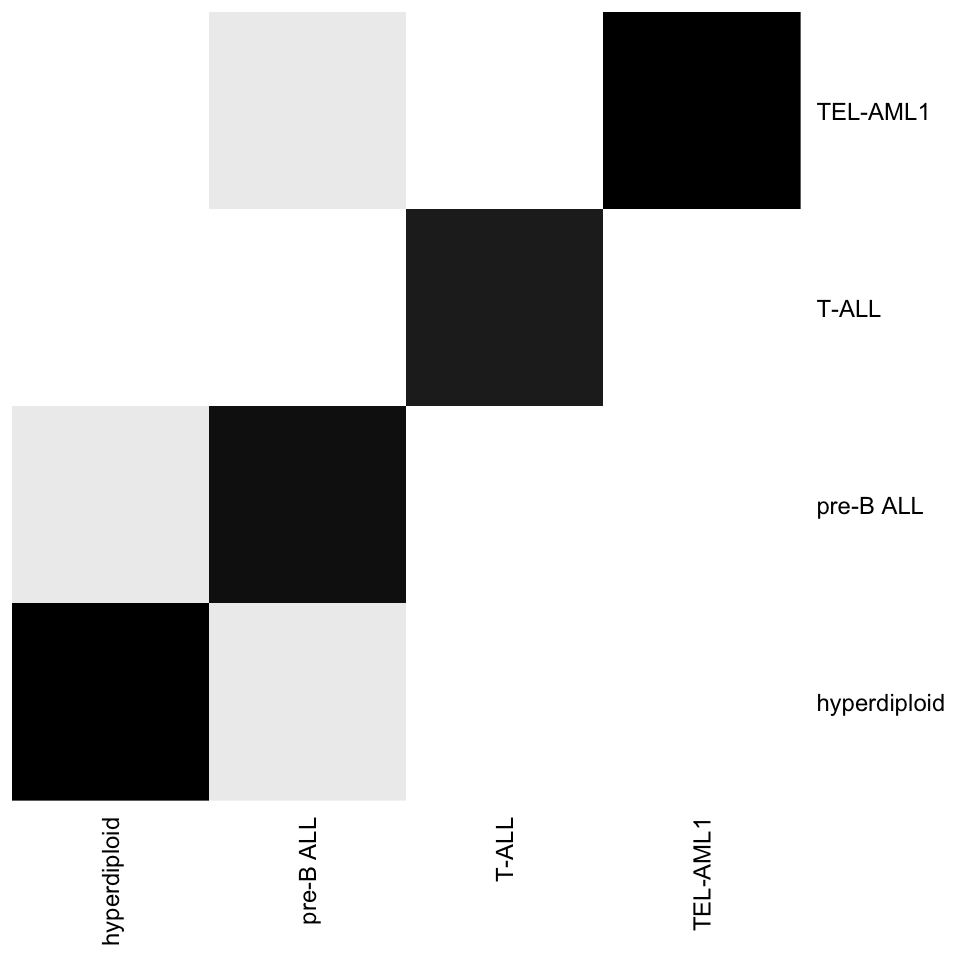
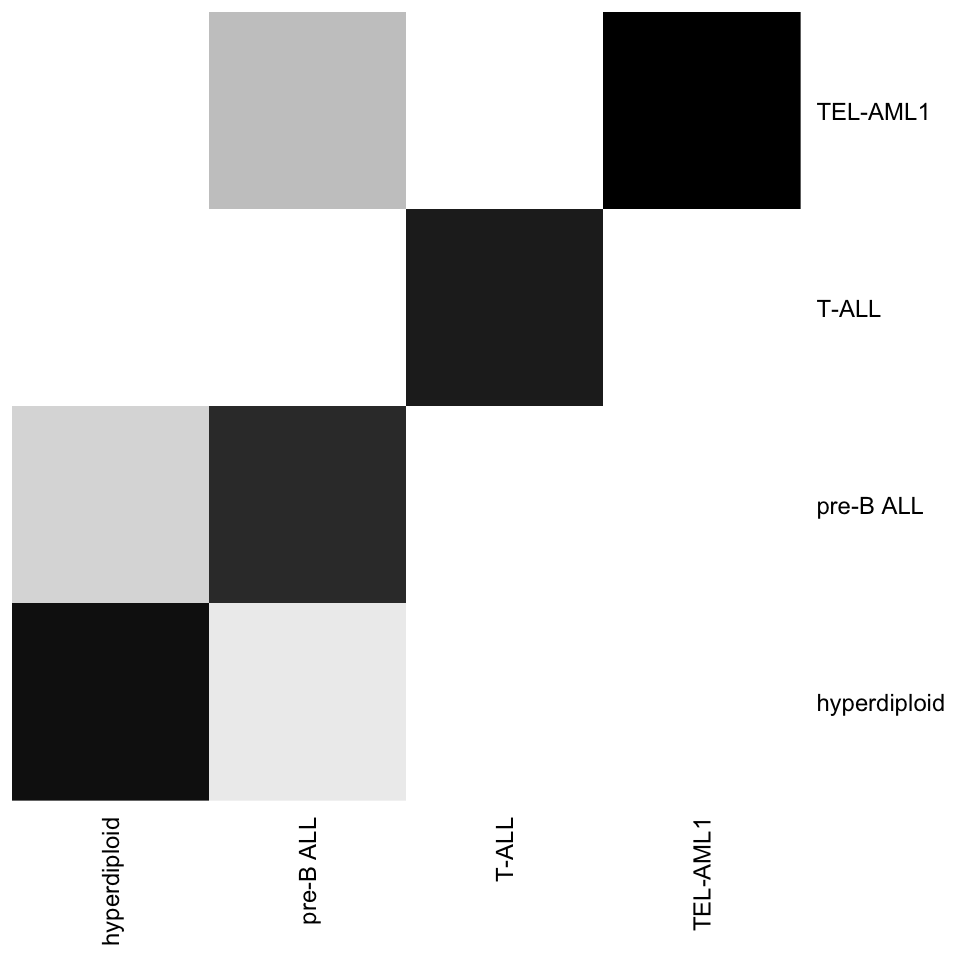
added info during the support session + tuning methods suggested by Fabiana Rossi

Changed region(s): [[0.2188, 0.4062, 0.4375, 0.625], [0.2188, 0.0, 0.4375, 0.2188]]

diff --git a/practicals/multivariate-analysis_DenBoer2009/DenBoer_2009_supervised-classification.html b/practicals/multivariate-analysis_DenBoer2009/DenBoer_2009_supervised-classification.html
@@ -11,7 +11,7 @@
 
 <meta name="author" content="Jacques van Helden" />
 
-<meta name="date" content="2020-04-08" />
+<meta name="date" content="2020-04-12" />
 
 <title>Practical – Supervised classification – Microarrays</title>
 
@@ -351,7 +351,7 @@ div.tocify {
 <h1 class="title toc-ignore">Practical – Supervised classification – Microarrays</h1>
 <h3 class="subtitle">STAT2</h3>
 <h4 class="author">Jacques van Helden</h4>
-<h4 class="date">2020-04-08</h4>
+<h4 class="date">2020-04-12</h4>
 
 </div>
 
@@ -420,7 +420,7 @@ div.tocify {
 <a class="sourceLine" id="cb3-2" data-line-number="2"><span class="kw">message</span>(<span class="st">&quot;Loading data from memory image file&quot;</span>)</a>
 <a class="sourceLine" id="cb3-3" data-line-number="3"><span class="kw">system.time</span>(<span class="kw">load</span>(memImageFile))</a></code></pre></div>
 <pre><code>   user  system elapsed 
-  0.573   0.029   0.603 </code></pre>
+  0.604   0.030   0.636 </code></pre>
 <div class="sourceCode" id="cb5"><pre class="sourceCode r"><code class="sourceCode r"><a class="sourceLine" id="cb5-1" data-line-number="1"><span class="kw">message</span>(<span class="st">&quot;Data loaded&quot;</span>)</a></code></pre></div>
 </div>
 <div id="recommendations" class="section level2">
@@ -670,7 +670,7 @@ div.tocify {
 <a class="sourceLine" id="cb7-4" data-line-number="4"><span class="co">#&#39; @param x a data frame with one row per variable and one column per individual</span></a>
 <a class="sourceLine" id="cb7-5" data-line-number="5"><span class="co">#&#39; @param classes a vector indicating the class of each individual</span></a>
 <a class="sourceLine" id="cb7-6" data-line-number="6"><span class="co">#&#39; @param minPerClass=20 minimal number of inidividuals per class</span></a>
-<a class="sourceLine" id="cb7-7" data-line-number="7"><span class="co">#&#39; @return a list containing the filtered data table and vector of class memberships</span></a>
+<a class="sourceLine" id="cb7-7" data-line-number="7"><span class="co">#&#39; @return a list containing the filtered data table, a vector of class memberships, and other fields describing the numbers and names of the elements (variables, samples, classes)</span></a>
 <a class="sourceLine" id="cb7-8" data-line-number="8"><span class="co">#&#39; @export</span></a>
 <a class="sourceLine" id="cb7-9" data-line-number="9">FilterClasses &lt;-<span class="st"> </span><span class="cf">function</span>(x,</a>
 <a class="sourceLine" id="cb7-10" data-line-number="10">                          classes,</a>
@@ -678,7 +678,7 @@ div.tocify {
 <a class="sourceLine" id="cb7-12" data-line-number="12"></a>
 <a class="sourceLine" id="cb7-13" data-line-number="13">  <span class="co">## Check that the data table and class vector have consistent dimensions</span></a>
 <a class="sourceLine" id="cb7-14" data-line-number="14">  <span class="cf">if</span> (<span class="kw">length</span>(classes) <span class="op">!=</span><span class="st"> </span><span class="kw">ncol</span>(x)) {</a>
-<a class="sourceLine" id="cb7-15" data-line-number="15">    <span class="kw">stop</span>(<span class="st">&quot;The number of columns of x shoudl be identical to the length of classes&quot;</span>)</a>
+<a class="sourceLine" id="cb7-15" data-line-number="15">    <span class="kw">stop</span>(<span class="st">&quot;The number of columns of x should be identical to the length of classes&quot;</span>)</a>
 <a class="sourceLine" id="cb7-16" data-line-number="16">  }</a>
 <a class="sourceLine" id="cb7-17" data-line-number="17"></a>
 <a class="sourceLine" id="cb7-18" data-line-number="18">  <span class="co">## Prepare a list that will hold the different pieces of result</span></a>
@@ -714,7 +714,7 @@ div.tocify {
 <a class="sourceLine" id="cb7-48" data-line-number="48">  }</a>
 <a class="sourceLine" id="cb7-49" data-line-number="49"></a>
 <a class="sourceLine" id="cb7-50" data-line-number="50">  <span class="co">## Build the result object (list) by adding fields with the relevant information</span></a>
-<a class="sourceLine" id="cb7-51" data-line-number="51">  result<span class="op">$</span>nbClasses &lt;-<span class="st"> </span><span class="kw">length</span>(result<span class="op">$</span>classes) <span class="co">## Number of classes after filtering</span></a>
+<a class="sourceLine" id="cb7-51" data-line-number="51">  result<span class="op">$</span>nbClasses &lt;-<span class="st"> </span><span class="kw">length</span>(classNames) <span class="co">## Number of classes after filtering</span></a>
 <a class="sourceLine" id="cb7-52" data-line-number="52">  result<span class="op">$</span>nbIndividuals &lt;-<span class="st"> </span><span class="kw">nrow</span>(result<span class="op">$</span>x) <span class="co">## Number of individuals</span></a>
 <a class="sourceLine" id="cb7-53" data-line-number="53">  result<span class="op">$</span>nbVariables &lt;-<span class="st"> </span><span class="kw">ncol</span>(result<span class="op">$</span>x) <span class="co">## Number of variables</span></a>
 <a class="sourceLine" id="cb7-54" data-line-number="54">  result<span class="op">$</span>classNames &lt;-<span class="st"> </span><span class="kw">unique</span>(result<span class="op">$</span>classes) <span class="co">## class names after filtering</span></a>
@@ -930,15 +930,15 @@ div.tocify {
 <tbody>
 <tr class="odd">
 <td>hyperdiploid</td>
-<td align="right">14</td>
+<td align="right">13</td>
 <td align="right">1</td>
 <td align="right">0</td>
 <td align="right">0</td>
 </tr>
 <tr class="even">
 <td>pre-B ALL</td>
-<td align="right">1</td>
-<td align="right">13</td>
+<td align="right">2</td>
+<td align="right">11</td>
 <td align="right">0</td>
 <td align="right">0</td>
 </tr>
@@ -952,7 +952,7 @@ div.tocify {
 <tr class="even">
 <td>TEL-AML1</td>
 <td align="right">0</td>
-<td align="right">1</td>
+<td align="right">3</td>
 <td align="right">0</td>
 <td align="right">14</td>
 </tr>
@@ -993,10 +993,103 @@ div.tocify {
 <h3>Comparison between results</h3>
 <p>Comparison between results obtained with:</p>
 <ul>
-<li>the smae classifier and different parameters</li>
-<li>different classifiers (assuming that you first selected the best parameters for each one)</li>
+<li><p>the same classifier and different parameters, in order to identify the optimal paramters.</p></li>
+<li><p>once hti is done, run different classifiers (assuming that you first selected the best parameters for each one) and compare their performances</p></li>
+</ul>
+<p>For this you need to be able to run the whole procedure several times</p>
+<ul>
+<li><p>iterating on the parameters</p>
+<ul>
+<li><p>iterating on the train/test session</p>
+<ul>
+<li>select training and testing sets</li>
+<li>train the classifier</li>
+<li>run the test on the testing set</li>
+<li>aggregate the results</li>
+<li>compute the confusion table</li>
+<li>compute the performance statistics (MER)</li>
+</ul></li>
+<li><p>summarise the results of the iterations</p>
+<ul>
+<li>mean performance</li>
+<li>variations of performance index between iterations of training/testing</li>
+</ul></li>
+</ul></li>
 </ul>
 </div>
+<div id="impact-of-the-parameters" class="section level3">
+<h3>Impact of the parameters</h3>
+<p>I propose to test the following parameters (but you are free to test other ones if you have a good reason to think they are relevant)</p>
+<ul>
+<li><p>For SVM: the critical parameter is the kernel (linear, radial, polynomial, sigmoid).</p>
+<ul>
+<li>To check: there is a function named <code>e1071::tune.svm()</code>, which might do the job. If so use it, it will facilitate your life.</li>
+</ul></li>
+<li><p>For KNN, the main parameter is the number of neighbours (<span class="math inline">\(k\)</span>). Test: 3, 4, 5, 7, 10</p>
+<ul>
+<li>There is a function named: <code>e1071::tune.knn()</code> -&gt; check if this enables you to automatically find the best parameteres</li>
+</ul></li>
+<li><p>Random Forest:</p>
+<ul>
+<li><p>random forest iterates many times (typically 500 times) training / testing on random subsets of the data (subset of individuals and variables). After the training, it tests the error rate on the individuals that were not retained for training. This is called <strong>Out-of-bag error</strong>.</p></li>
+<li><p>relevant parameters are</p>
+<ul>
+<li><strong>number of trees</strong> (“iterations”)</li>
+<li><strong>mtry</strong>: Number of variables randomly sampled as candidates at each split. Note that the default values are different for classification (sqrt(p) where p is number of variables in x) and regression (p/3)</li>
+</ul></li>
+<li><p>In ordre to see the best number of trees, you can simply ploit the RF model. This will display the Out-of-bag error rate as a function of the number of iterations.</p></li>
+<li><p>Fabiana noted a function <code>tuneRF()</code>, that runs RF with different parameter values, gather the results and displays graphically the impact of the parameters on the performances.</p></li>
+<li><p>There is also a funciton <code>e1071::tune.randomForest()</code>. Check which one is the most convenient</p></li>
+</ul></li>
+</ul>
+</div>
+<div id="iterations-of-trainingtesting" class="section level3">
+<h3>Iterations of training/testing</h3>
+<p>After having identified the best parameters for a given classifer (using the above-mentioned tune functions), you will run 10 iterations with the optimal parameters in order to measure the mean MER and its fluctuations.</p>
+<p>For each classifier that you will test, you should repeat the train/test evaluation because the result may vary depending on the random split of the dataset –&gt; the idea is to run it e.g. <span class="math inline">\(r = 10\)</span> times in order to obtain a mean value + the dispersion (e.g. standard devation) or a graphical representation (e.g. box plot) that shows how much the MER varies between repetitions of the test.</p>
+<p>At each iteration, you obtaine a given <span class="math inline">\(MER\)</span>. Collect them, and then you can draw a boxplot (for example) of the MER values. Suggestion: use a scale from 0 to 1 for the MER boxplot, in order to always display the full range of possible values.</p>
+</div>
+</div>
+<div id="data-reduction-and-feature-selection" class="section level2">
+<h2>Data reduction and feature selection</h2>
+<div id="variable-ordering" class="section level3">
+<h3>Variable ordering</h3>
+<p>The principle is to sort all the variables based on a given criterion, and to keep the <span class="math inline">\(n\)</span> top variables only.</p>
+<p>Typical criteria.</p>
+<ul>
+<li><p>A simple criterion is the <strong>variance</strong>, but this is not always a relevant criterion.</p></li>
+<li><p>An alternative is to sort the variables (in this case, the genes) by decreasing significance of a <strong>differential analysis test.</strong> So faw we saw how to run differential analysis with two groups. In this case we want to run a 4-group classification. One possibility is to run a test that compare multiple groups, e.g. anova (ANalysis Of Variance). Thi is a general method to analyse the impact of one or several factors on some osberver variable. In this case there would be a single factor (one-way ANOVA), the cancer class (subtype).</p></li>
+</ul>
+</div>
+<div id="pca" class="section level3">
+<h3>PCA</h3>
+<p>Keep the first components after PCA of the variable space.</p>
+</div>
+<div id="stepwise-selection" class="section level3">
+<h3>Stepwise selection</h3>
+<p>Two modalities: forward and backward.</p>
+<p><strong>Forward selection</strong>:</p>
+<pre><code>- train / test with each variable alone. the results are supposedly porr but some variables will give som success. 
+- Then run a train/test  combining the best variable with each other variable (2-variables test)
+- Select the bets of these 2-variables combinations, and run train/test by combining it with each one the remaining variables (here you have combinations of 3 variables)
+- ... do the same until $n$ variables, or stop if the performances start to decrease strongly</code></pre>
+<p>This is heavy: if you have <span class="math inline">\(n\)</span> variables, the number of training/testing sets is.</p>
+<ul>
+<li>first round : <span class="math inline">\(n\)</span> tests, and keep 1 variable</li>
+<li>second round: <span class="math inline">\(n -1\)</span> since you successively consider each vaaraiable that is not selected in the first round</li>
+<li>third round: <span class="math inline">\(n-1\)</span> tests</li>
+</ul>
+<p>…</p>
+<p>For all the rounds</p>
+<p><span class="math display">\[n + (n-1) + (n-2) + \ldots + 2 + 1\]</span></p>
+</div>
+</div>
+<div id="to-do-for-jvh" class="section level2">
+<h2>To do for JvH</h2>
+<ul>
+<li><p>add an example of multi-group differential expression analysis with ANOVA.</p></li>
+<li><p>test the tune.XXX() methods</p></li>
+</ul>
 </div>
 
 

diff --git a/practicals/multivariate-analysis_DenBoer2009/DenBoer_2009_load-and-explore_solutions.html b/practicals/multivariate-analysis_DenBoer2009/DenBoer_2009_load-and-explore_solutions.html
@@ -11,7 +11,7 @@
 
 <meta name="author" content="Jacques van Helden" />
 
-<meta name="date" content="2020-04-03" />
+<meta name="date" content="2020-04-12" />
 
 <title>Practical – Microarray analysis – Data loading and exploration</title>
 
@@ -351,7 +351,7 @@ div.tocify {
 <h1 class="title toc-ignore">Practical – Microarray analysis – Data loading and exploration</h1>
 <h3 class="subtitle">(STAT2)</h3>
 <h4 class="author">Jacques van Helden</h4>
-<h4 class="date">2020-04-03</h4>
+<h4 class="date">2020-04-12</h4>
 
 </div>
 
@@ -804,20 +804,28 @@ Data reduction with PCA. Topleft: variance of the first components
 <div class="sourceCode" id="cb12"><pre class="sourceCode r"><code class="sourceCode r"><a class="sourceLine" id="cb12-1" data-line-number="1"><span class="kw">par</span>(par.ori)</a></code></pre></div>
 </div>
 </div>
+<div id="saving-a-memory-image" class="section level2">
+<h2>Saving a memory image</h2>
+<p>At the end of this tutorial, we downloaded data in tabular format (expression table, metadata, group descriptions) and loaded them in R. We will be led to re-use the same dataset for the subsequent tutorials.</p>
+<p>For this, one possibility would be to re-run this tutorial before running the next ones. An simpler alternative is to save the content of the R memory in a file that can be reloaded in a single command.</p>
+<div class="sourceCode" id="cb13"><pre class="sourceCode r"><code class="sourceCode r"><a class="sourceLine" id="cb13-1" data-line-number="1"><span class="co">#### Save a memory image ####</span></a>
+<a class="sourceLine" id="cb13-2" data-line-number="2"><span class="kw">message</span>(<span class="st">&quot;Saving memory image in file &quot;</span>, memImageFile)</a>
+<a class="sourceLine" id="cb13-3" data-line-number="3"><span class="kw">save.image</span>(<span class="dt">file =</span> memImageFile)</a></code></pre></div>
+</div>
 <div id="extract-r-code-from-this-markdown" class="section level2">
 <h2>Extract R code from this markdown</h2>
-<div class="sourceCode" id="cb13"><pre class="sourceCode r"><code class="sourceCode r"><a class="sourceLine" id="cb13-1" data-line-number="1"><span class="kw">library</span>(knitr)</a>
-<a class="sourceLine" id="cb13-2" data-line-number="2">RmdFile &lt;-<span class="st"> </span><span class="kw">file.path</span>(<span class="st">&quot;practicals&quot;</span>, </a>
-<a class="sourceLine" id="cb13-3" data-line-number="3">                     <span class="st">&quot;multivariate-analysis_DenBoer2009&quot;</span>,</a>
-<a class="sourceLine" id="cb13-4" data-line-number="4">                     <span class="st">&quot;DenBoer_2009_load-and-explore_solutions.Rmd&quot;</span>)</a>
-<a class="sourceLine" id="cb13-5" data-line-number="5">RFile &lt;-<span class="st"> </span><span class="kw">file.path</span>(<span class="st">&quot;practicals&quot;</span>, </a>
-<a class="sourceLine" id="cb13-6" data-line-number="6">                   <span class="st">&quot;multivariate-analysis_DenBoer2009&quot;</span>, </a>
-<a class="sourceLine" id="cb13-7" data-line-number="7">                   <span class="st">&quot;DenBoer_2009_load-and-explore_solutions.R&quot;</span>)</a>
-<a class="sourceLine" id="cb13-8" data-line-number="8"><span class="co">## purl(RmdFile, RFile)</span></a></code></pre></div>
+<div class="sourceCode" id="cb14"><pre class="sourceCode r"><code class="sourceCode r"><a class="sourceLine" id="cb14-1" data-line-number="1"><span class="kw">library</span>(knitr)</a>
+<a class="sourceLine" id="cb14-2" data-line-number="2">RmdFile &lt;-<span class="st"> </span><span class="kw">file.path</span>(<span class="st">&quot;practicals&quot;</span>, </a>
+<a class="sourceLine" id="cb14-3" data-line-number="3">                     <span class="st">&quot;multivariate-analysis_DenBoer2009&quot;</span>,</a>
+<a class="sourceLine" id="cb14-4" data-line-number="4">                     <span class="st">&quot;DenBoer_2009_load-and-explore_solutions.Rmd&quot;</span>)</a>
+<a class="sourceLine" id="cb14-5" data-line-number="5">RFile &lt;-<span class="st"> </span><span class="kw">file.path</span>(<span class="st">&quot;practicals&quot;</span>, </a>
+<a class="sourceLine" id="cb14-6" data-line-number="6">                   <span class="st">&quot;multivariate-analysis_DenBoer2009&quot;</span>, </a>
+<a class="sourceLine" id="cb14-7" data-line-number="7">                   <span class="st">&quot;DenBoer_2009_load-and-explore_solutions.R&quot;</span>)</a>
+<a class="sourceLine" id="cb14-8" data-line-number="8"><span class="co">## purl(RmdFile, RFile)</span></a></code></pre></div>
 </div>
 <div id="sessiokn-info" class="section level2">
 <h2>Sessiokn info</h2>
-<div class="sourceCode" id="cb14"><pre class="sourceCode r"><code class="sourceCode r"><a class="sourceLine" id="cb14-1" data-line-number="1"><span class="kw">sessionInfo</span>()</a></code></pre></div>
+<div class="sourceCode" id="cb15"><pre class="sourceCode r"><code class="sourceCode r"><a class="sourceLine" id="cb15-1" data-line-number="1"><span class="kw">sessionInfo</span>()</a></code></pre></div>
 <pre><code>R version 3.6.1 (2019-07-05)
 Platform: x86_64-apple-darwin15.6.0 (64-bit)
 Running under: macOS Mojave 10.14.6
